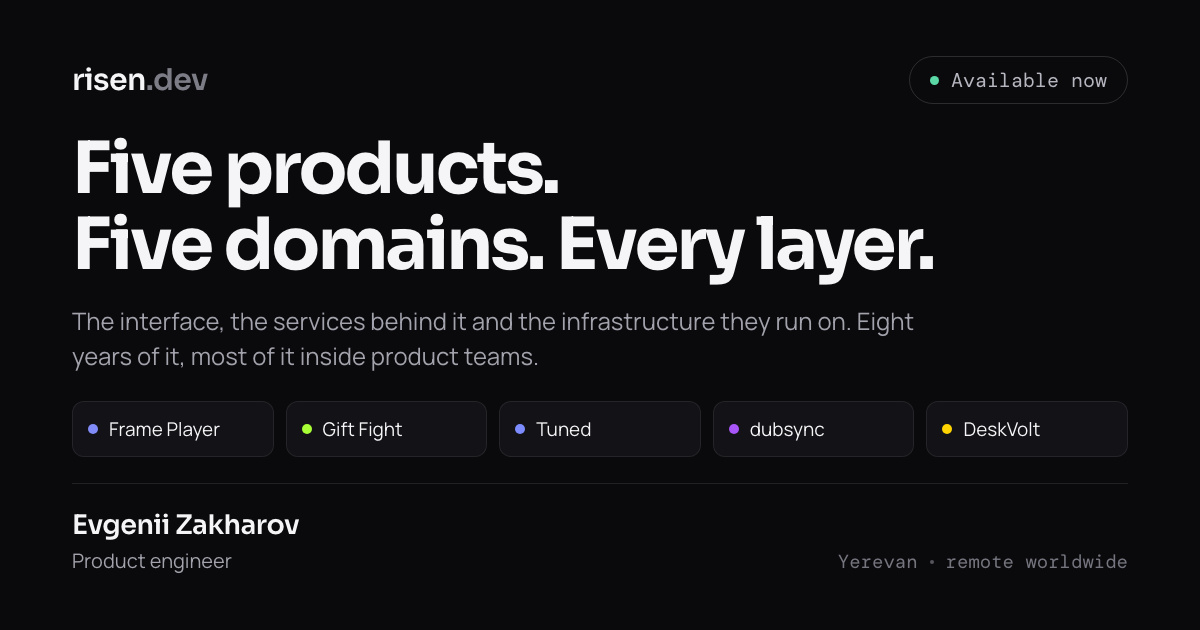
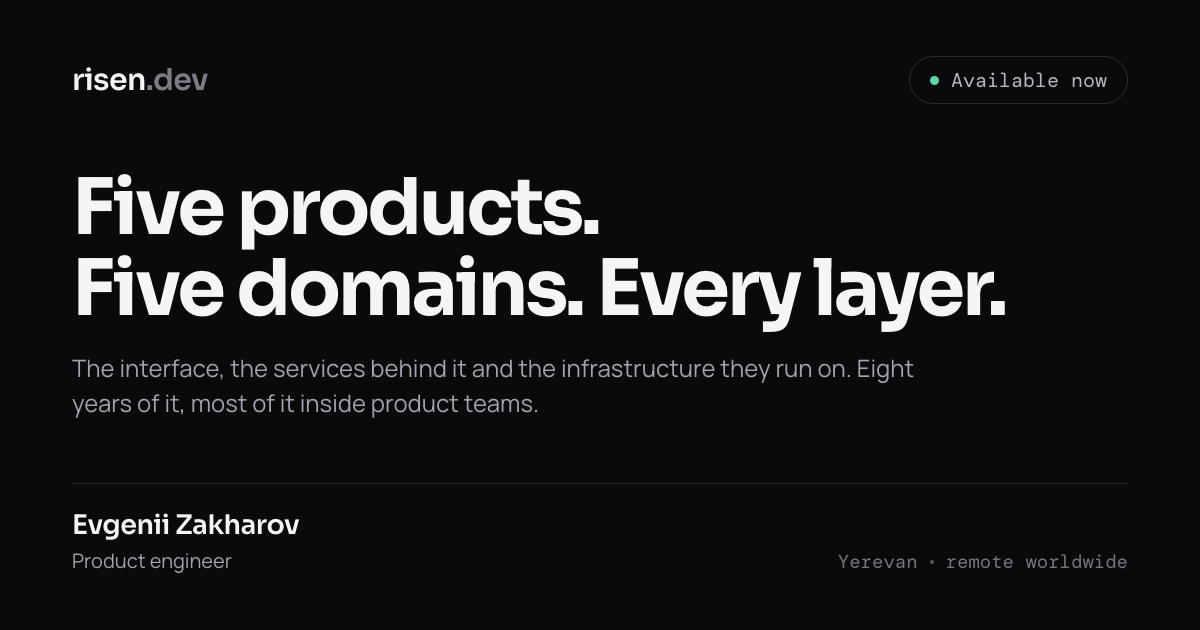
Simplify the link preview and keep the availability chip on one line
The card drops the row of five product names. It is the claim and who is
making it; the row was the smallest thing on an image that is usually seen
at half this width. The space goes to the headline, at 78px rather than 82
so the second line keeps a real margin from the right edge instead of three
pixels.

The chip now reads "Open to senior engineering roles": "senior product
roles" scanned as product management. At 32 monospaced characters it comes
within five pixels of the content width on a 320px screen, so below 355px
the pill gives back a little size and padding rather than wrapping, and the
rule that used to reshape a two-row lozenge into a card is gone.

diff --git a/src/og/card.html b/src/og/card.html
@@ -23,7 +23,6 @@
 
       :root {
         --bg: #0a0a0c;
-        --s3: #131317;
         --fg: #f5f5f7;
         --fg2: #a3a3ad;
         --fg3: #75757f;
@@ -96,8 +95,8 @@
       h1 {
         font-family: var(--display);
         font-weight: 700;
-        font-size: 72px;
-        line-height: 1.05;
+        font-size: 78px;
+        line-height: 1.04;
         letter-spacing: -0.04em;
       }
 
@@ -109,33 +108,6 @@
         color: var(--fg2);
       }
 
-      /* The five, each in its own product's colour: the only colour on the card
-         besides the availability dot. */
-      .products {
-        display: flex;
-        gap: 12px;
-        margin-bottom: 26px;
-      }
-
-      .product {
-        flex: 1 1 0;
-        display: flex;
-        align-items: center;
-        gap: 11px;
-        padding: 14px 15px;
-        background: var(--s3);
-        border: 1px solid rgba(255, 255, 255, 0.08);
-        border-radius: 12px;
-        font-size: 19px;
-        white-space: nowrap;
-      }
-
-      .product i {
-        width: 10px;
-        height: 10px;
-        border-radius: 50%;
-        flex: none;
-      }
 
       .bottom {
         display: flex;
@@ -192,13 +164,6 @@
       </p>
     </div>
 
-    <div class="products">
-      <span class="product"><i style="background: #818cf8"></i>Frame Player</span>
-      <span class="product"><i style="background: #a8ff35"></i>Gift Fight</span>
-      <span class="product"><i style="background: #7c8cff"></i>Tuned</span>
-      <span class="product"><i style="background: #a855f7"></i>dubsync</span>
-      <span class="product"><i style="background: #ffd400"></i>DeskVolt</span>
-    </div>
 
     <div class="bottom">
       <div>

diff --git a/src/styles/global.css b/src/styles/global.css
@@ -316,6 +316,7 @@
   .pill {
     display: inline-flex;
     align-items: center;
+    white-space: nowrap;
     gap: 9px;
     padding: 7px 15px;
     border: 1px solid var(--line2);
@@ -334,23 +335,18 @@
   }
 
   /*
-    Below this width the availability line runs to two rows. A 999px radius on a
-    two-row box reads as a mistake, so the pill becomes a small card and the dot
-    aligns with the first line instead of floating in the middle of both.
+    The availability line is 32 monospaced characters, which at 12 px comes to
+    within five pixels of the content width on a 320 px screen. Below that it
+    would touch both gutters, so the pill gives back a little size and padding
+    rather than wrapping — 11.5 px is still above the floor for functional text.
   */
-  @media (max-width: 620px) {
+  @media (max-width: 355px) {
     .pill {
-      align-items: flex-start;
-      text-align: left;
-      border-radius: 14px;
-      padding: 9px 14px;
-      line-height: 1.45;
-    }
-
-    .pill .live {
-      margin-top: 5px;
+      font-size: 11.5px;
+      padding: 7px 12px;
     }
   }
+
 
   /* Thumbs, not cursors: the icon-only buttons grow to the 44 px floor. */
   @media (max-width: 720px) {
